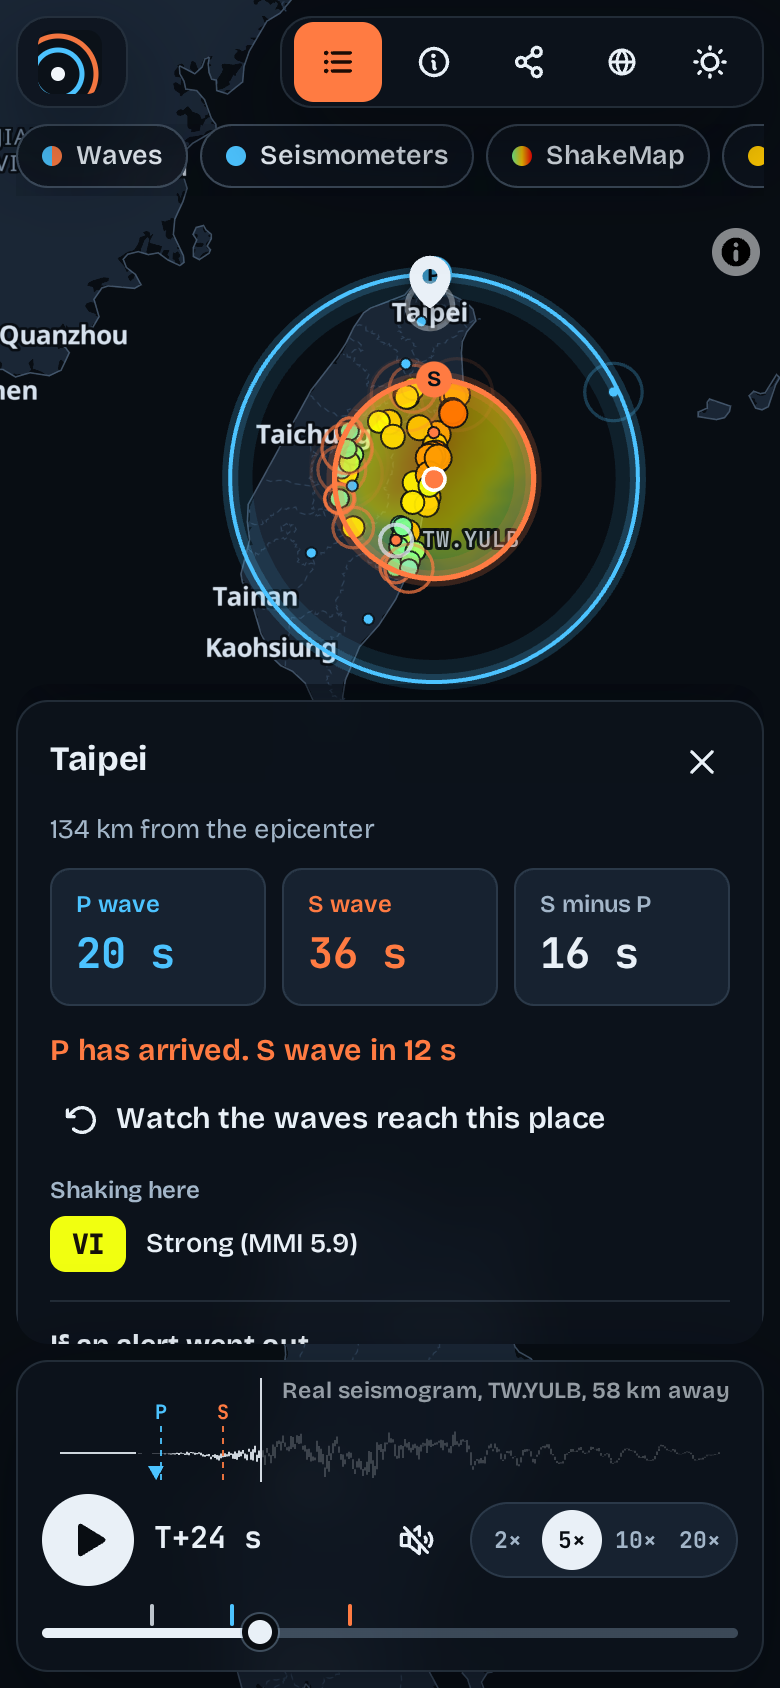
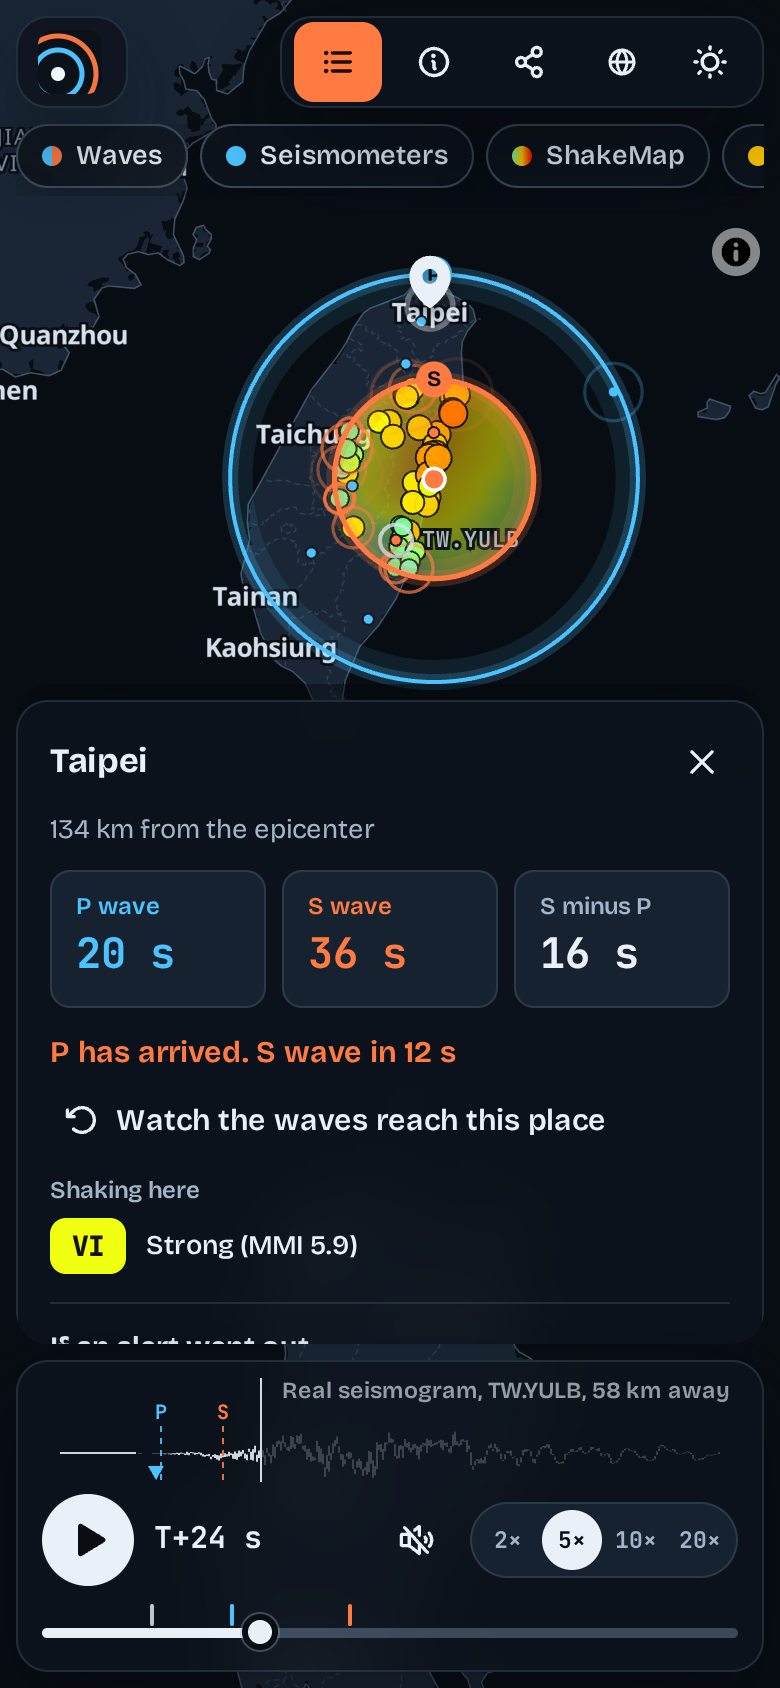
0.4.1: a plain sentence under the README tagline in all nine languages, notes on the new search areas and the link rules, and refreshed phone screenshots

diff --git a/src/app/panel.ts b/src/app/panel.ts
@@ -443,7 +443,7 @@ export function createPanel(host: HTMLElement, cb: PanelCallbacks) {
 
   /** Null until the first update, so a pin kept from an earlier visit does not move the sheet. */
   let hadPin: boolean | null = null;
-  /** The panel scrolls itself to the pin card and to the check card; a viewer who asked for less motion gets a jump. */
+  /** The panel scrolls itself to the pin card and to the check card. A viewer who asked for less motion gets a jump. */
   const scrollBehavior = (): ScrollBehavior => (window.matchMedia('(prefers-reduced-motion: reduce)').matches ? 'auto' : 'smooth');
   /** On a phone the sheet shows the quake card first, which would hide the numbers of a pin just placed. */
   function followPin(placed: boolean): void {

diff --git a/README.md b/README.md
@@ -5,6 +5,8 @@
 
 <p align="center"><strong>Replay any earthquake. See your seconds.</strong></p>
 
+<p align="center">Pick a real earthquake and pin your home on the map. See how many seconds passed between the first wave and strong shaking.</p>
+
 <p align="center">
   <a href="https://arthur031221.github.io/Rumbleback/"><img src="https://img.shields.io/badge/live_demo-open-ff7b42?style=for-the-badge&labelColor=0b1118" alt="Live demo"></a>
   <a href="https://github.com/Arthur031221/Rumbleback/actions/workflows/ci.yml"><img src="https://img.shields.io/github/actions/workflow/status/Arthur031221/Rumbleback/ci.yml?branch=main&style=for-the-badge&labelColor=0b1118&color=4cc3ff&label=CI" alt="CI"></a>
@@ -33,7 +35,7 @@
 
 ## Pick a story
 
-Each link opens a quake on the live page, pins a city and starts the replay. P and S times come from the model. Shaking comes from the USGS ShakeMap. These are the same numbers shown on the pin card.
+Each link opens a quake on the live page, pins a city and starts the replay. The model gives the P and S times. The USGS ShakeMap gives the shaking. The pin card shows the same numbers.
 
 | Quake | Pin | P wave | S wave | Shaking there |
 |---|---|---:|---:|---|
@@ -44,11 +46,11 @@ Each link opens a quake on the live page, pins a city and starts the replay. P a
 
 ## Why
 
-An earthquake makes the news, and you get a magnitude and a shaded map. I wanted to see what the waves did and how many seconds I'd have had at my place. Rumbleback replays a real earthquake. You can check every claim on the screen.
+An earthquake makes the news. You get a magnitude and a shaded map. I wanted to see what the waves did and how many seconds I'd have had at my place. Rumbleback replays a real earthquake. You can check every claim on the screen.
 
-- **Real data.** Every dot is a real instrument, pick or felt report from USGS. A real seismogram runs under the timeline, with the model's P and S arrivals beside the station's recorded signal. The two rings come from a published Earth model. I check it against ObsPy at 600 random points and against real picks on every quake.
+- **Real data.** Every dot is a real instrument, pick or felt report from USGS. A real seismogram runs under the timeline, with the model's P and S arrivals beside the station's recorded signal. The two rings use a published Earth model. I check it against ObsPy at 600 random points and against real picks on every quake.
 - **Your place.** Pin your home to see when the P and S waves arrived and how strong the shaking was. Choose any alert time to see how many seconds it would've given you.
-- **No server.** It's a static page. No account or analytics. Your pin never leaves the browser.
+- **No server.** It's a static page. No account, no analytics. Your pin never leaves the browser.
 
 ## Before and after
 
@@ -73,16 +75,16 @@ The 2024 Hualien M7.4 quake, seen from Taipei.
 
 - **Waves.** The first P and S wavefronts at the surface account for depth. For a deep quake, no ring appears until the wave reaches the surface.
 - **Seismometers.** Each dot flashes at an analyst's picked P arrival time for a real station (USGS phase data).
-- **Inspect a dot.** Hover over a lit dot. A station shows its pick beside the model's time. An instrument shows its intensity and peak readings. A felt report shows its count. The check card lists ten stations the same way and works with a keyboard or touch screen.
-- **Seismogram.** A nearby station's real vertical trace runs along the timeline. The model's P and S arrivals and the analyst's pick are drawn over it (EarthScope archive).
+- **Inspect a dot.** Hover over a lit dot. A station shows its pick beside the model's time. An instrument shows its intensity and peak readings. A felt report shows its count. The check card lists ten stations the same way. It works with a keyboard or touch screen.
+- **Seismogram.** A nearby station's real vertical trace runs along the timeline, with the model's P and S arrivals and the analyst's pick drawn over it (EarthScope archive).
 - **ShakeMap, strong motion and felt reports.** The USGS intensity map, instruments coloured by the intensity USGS computed from their recordings, and Did You Feel It groups. The quake card has a colour key.
 - **Blind zone.** The area where the S wave beat an alert issued at your chosen time.
-- **Your seconds.** P and S arrivals at your pin, the gap between them, the ShakeMap intensity there and an alert slider. It's arithmetic on the model and doesn't reflect any real alert. A button replays the waves from just before they reach your pin.
+- **Your seconds.** P and S arrivals at your pin, the gap between them, the ShakeMap intensity there and an alert slider. The slider uses arithmetic on the model and doesn't reflect any real alert. A button replays the waves from just before they reach your pin.
 - **Sound.** An optional low thump for P, a rumble for S that grows with the intensity at your pin, and a soft chime at the alert second.
-- **Share.** A link, a square card, a story card and a recorded video clip. The clip saves as MP4 where the browser supports it, so it plays on an iPhone and in social apps. On a phone, a card opens the system share sheet. The link includes your pin only if you tick a box. It keeps the pin after the `#`, which browsers never send to a server. Cards show a city name, never coordinates.
-- **Any quake.** Fourteen featured events work without calling USGS. Ten include a seismogram. Recent and Search tabs read the live USGS catalog. The Link tab opens any USGS event page or id you paste, with an EarthScope seismogram when available.
+- **Share.** A link, a square card, a story card and a recorded video clip. The clip saves as MP4 where the browser supports it, so it plays on an iPhone and in social apps. On a phone, a card opens the system share sheet. The link includes your pin only if you tick a box. The pin stays after the `#`, which browsers never send to a server. Cards show a city name, never coordinates.
+- **Any quake.** Fourteen featured events work without calling USGS. Ten include a seismogram. Recent and Search tabs read the live USGS catalog. Paste any USGS event page or id into the Link tab to open it, with an EarthScope seismogram when available.
 - **Your time zone.** The quake card shows the time in UTC and your own time zone.
-- **Phones and keyboards.** On a phone, the panel is a bottom sheet and the seismogram stays above the timeline. A new pin scrolls the sheet to its numbers. Turn the phone sideways and the panel moves to the side, leaving room for the map. Space plays and pauses, the arrows step the clock, and plus and minus zoom the map. A screen reader announces when the P wave, the S wave and the alert reach your pin. Browser tests run axe over both themes on desktop and phone screens, with each dialog open.
+- **Phones and keyboards.** On a phone, the panel is a bottom sheet and the seismogram stays above the timeline. A new pin scrolls the sheet to its numbers. Turn the phone sideways and the panel moves to the side, leaving room for the map. Space plays and pauses. The arrows step the clock, and plus and minus zoom the map. A screen reader announces when the P wave, the S wave and the alert reach your pin. Browser tests run axe over both themes on desktop and phone screens, with each dialog open.
 - **Nine languages.** English, Traditional and Simplified Chinese, Japanese, Korean, Spanish, French, German and Brazilian Portuguese, including the map labels.
 
 <p align="center">
@@ -116,7 +118,7 @@ Open <http://127.0.0.1:4173/>.
 <details>
 <summary>Use the travel-time library in Node or a browser</summary>
 
-`npm run build` writes `dist/rumbleback.js`, a single ES module with no DOM code. The live page serves the same file at `/rumbleback.js`. It's also attached to tagged releases.
+`npm run build` writes `dist/rumbleback.js`, a single ES module with no DOM code. The live page serves the same file at `/rumbleback.js`. Tagged releases include it too.
 
 ```js
 import { TravelTimes, timingAt } from './rumbleback.js';

diff --git a/CHANGELOG.md b/CHANGELOG.md
@@ -1,5 +1,33 @@
 # Changelog
 
+## 0.4.1
+
+Released 2026-10-10.
+
+New
+
+- The search can look in sixteen more countries (Iceland, Tonga, the Solomon Islands, Costa Rica, El Salvador,
+  Nicaragua, Panama, Puerto Rico, the Dominican Republic, South Korea, Algeria, Albania, Romania, Tajikistan,
+  Kyrgyzstan and Argentina) and in two areas that are not countries: Hawaii, and Kamchatka with the Kurils. The
+  names follow the language of the page.
+- The README opens with one plain sentence on what the page does, in all nine languages.
+
+Fixed
+
+- A shared link's pin and language beat what the browser had saved, and they came back on every reload. Someone who
+  opened a friend's link, moved the pin to their own home and reloaded found the friend's pin again, and a removed pin
+  came back too. The address now drops the link's pin and language once the viewer chooses their own.
+- On a Safari before 17.4 (and a Chrome before 116) every request to USGS and EarthScope failed before it was sent,
+  because `AbortSignal.any` is missing there, so a quake that is not on the featured shelf, the Recent, Search and
+  Link tabs and the seismogram did not load. `AbortSignal.timeout`, missing before Safari 16.4, has the same fallback.
+- On a phone the prompt to drop a pin was cut off at the bottom of the sheet for anyone whose time zone is not UTC,
+  and on a 640 pixel high screen in every zone, because the quake card spent four lines on its facts. They run on as a
+  row that wraps, and the cards take a little less padding on a screen of 700 pixels or fewer, so the prompt shows at
+  390 by 664, 375 by 667 and 360 by 640 in all nine languages.
+- Opening the check card scrolled it into view with an animation even when the viewer had asked for less motion.
+- The dots for strong motion stations and felt reports built a colour string for every dot on every frame, about 0.4
+  milliseconds a frame for 5,000 dots on a desktop processor and more on a phone. Each dot's colour is made once per quake.
+
 ## 0.4.0
 
 Released 2026-10-10.

diff --git a/docs/USAGE.md b/docs/USAGE.md
@@ -11,8 +11,8 @@
 
 1. Press "Choose a quake". The *Featured* tab has fourteen well known events and works without
    calling USGS. *Recent* lists the newest quakes of the last 30 days, at most 60, and a menu raises the minimum
-   magnitude (4.5, 5, 6 or 7) to reach further back. *Search* takes a minimum magnitude, a region (sorted by name in your language) and a date
-   range. *Link* takes the address of a USGS event page (news stories often link to one) or an event id such as
+   magnitude (4.5, 5, 6 or 7) to reach further back. *Search* takes a minimum magnitude, a region (sorted by name in your language: 41 countries, California,
+   Alaska, Hawaii, and Kamchatka with the Kurils) and a date range. *Link* takes the address of a USGS event page (news stories often link to one) or an event id such as
    `us7000m9g4`, and opens that quake once USGS confirms it exists.
 2. The replay starts by itself, at a speed chosen so the whole thing takes about half a minute.
    Space plays and pauses. Left and right step one second, with Shift ten seconds. Plus and minus zoom the map.
@@ -121,6 +121,10 @@ Firefox. The file name tells you which one you got.
 | `t` | Clock in seconds after the origin. When present the replay opens paused |
 | `alert` | Alert issue time in seconds after the origin, 0 to 60 |
 | `lang` | `en`, `zh-TW`, `zh-CN`, `ja`, `ko`, `es`, `fr`, `de` or `pt-BR` |
+
+A link's pin and language are where the page starts, and they beat what the browser has saved. Once you choose your own
+pin or language, the address stops carrying the link's, so a reload keeps your choice. The link's other parts, the quake,
+the moment and the alert time, stay in the address.
 
 A link to an id USGS does not have says "USGS has no earthquake with that id" and offers no retry. When USGS cannot
 be reached, the quake card says so and has a "Try again" button.

diff --git a/docs/INSTALL.md b/docs/INSTALL.md
@@ -52,7 +52,8 @@ Running `npm run tables` reproduces the committed table exactly when ObsPy is ve
 
 ## Requirements for the browser
 
-A browser with WebGL 2: any current Chrome, Edge, Firefox or Safari. The replay needs `canvas`, and the
+A browser with WebGL 2: any current Chrome, Edge, Firefox or Safari. Requests to USGS and EarthScope also work on
+a Safari before 17.4 and a Chrome before 116, which lack `AbortSignal.any`. The replay needs `canvas`, and the
 video clip needs `MediaRecorder` (Chrome, Edge, Firefox and recent Safari) and is saved as MP4 where the
 browser can record it and as WebM otherwise. Without `MediaRecorder` the clip button says so and everything
 else works.

diff --git a/docs/ARCHITECTURE.md b/docs/ARCHITECTURE.md
@@ -26,6 +26,7 @@ Pure functions and small classes. No DOM, so it runs under Node for the tests an
 | `residuals.ts` | Observed minus modelled arrival for every pick |
 | `waveform.ts` | Picks a station, fetches its GeoCSV from EarthScope, keeps a min and max per time bin (a quarter second or two samples) |
 | `replay.ts` | Opening view, replay length, default speed |
+| `signal.ts` | `AbortSignal.timeout` and `AbortSignal.any`, with a by-hand version for a Safari that lacks them |
 | `intensity.ts`, `cities.ts`, `link.ts`, `regions.ts` | MMI colours and words, city search, deep links and the event id in a pasted USGS address, the search regions |
 
 ### The travel-time table

diff --git a/README.ko.md b/README.ko.md
@@ -6,6 +6,8 @@
 
 <p align="center"><strong>어떤 지진이든 다시 재생하고, 내게 몇 초가 있었는지 확인하세요.</strong></p>
 
+<p align="center">실제로 일어난 지진을 고르고 지도에 집을 표시하면, 첫 지진파부터 강한 흔들림까지 몇 초가 걸렸는지 볼 수 있습니다.</p>
+
 <p align="center">
   <a href="README.md">English</a> | <a href="README.zh-TW.md">zh-TW</a> | <a href="README.zh-CN.md">zh-CN</a> | <a href="README.ja.md">ja</a> | <a href="README.ko.md">ko</a> | <a href="README.es.md">es</a> | <a href="README.fr.md">fr</a> | <a href="README.de.md">de</a> | <a href="README.pt-BR.md">pt-BR</a>
 </p>

diff --git a/README.de.md b/README.de.md
@@ -6,6 +6,8 @@
 
 <p align="center"><strong>Jedes Erdbeben noch einmal abspielen. Sehen, wie viele Sekunden Sie hatten.</strong></p>
 
+<p align="center">Wählen Sie ein echtes Erdbeben, markieren Sie Ihr Zuhause auf der Karte und sehen Sie, wie viele Sekunden zwischen der ersten Welle und dem starken Beben vergingen.</p>
+
 <p align="center">
   <a href="README.md">English</a> | <a href="README.zh-TW.md">zh-TW</a> | <a href="README.zh-CN.md">zh-CN</a> | <a href="README.ja.md">ja</a> | <a href="README.ko.md">ko</a> | <a href="README.es.md">es</a> | <a href="README.fr.md">fr</a> | <a href="README.de.md">de</a> | <a href="README.pt-BR.md">pt-BR</a>
 </p>

diff --git a/README.ja.md b/README.ja.md
@@ -6,6 +6,8 @@
 
 <p align="center"><strong>どんな地震も再生。自分に何秒あったかがわかる。</strong></p>
 
+<p align="center">実際に起きた地震を選び、地図に自宅のピンを立てると、最初の地震波から強い揺れまでが何秒だったかが分かります。</p>
+
 <p align="center">
   <a href="README.md">English</a> | <a href="README.zh-TW.md">zh-TW</a> | <a href="README.zh-CN.md">zh-CN</a> | <a href="README.ja.md">ja</a> | <a href="README.ko.md">ko</a> | <a href="README.es.md">es</a> | <a href="README.fr.md">fr</a> | <a href="README.de.md">de</a> | <a href="README.pt-BR.md">pt-BR</a>
 </p>

diff --git a/README.fr.md b/README.fr.md
@@ -6,6 +6,8 @@
 
 <p align="center"><strong>Rejouez n'importe quel séisme. Voyez vos secondes.</strong></p>
 
+<p align="center">Choisissez un vrai séisme, placez votre domicile sur la carte et voyez combien de secondes se sont écoulées entre la première onde et les fortes secousses.</p>
+
 <p align="center">
   <a href="README.md">English</a> | <a href="README.zh-TW.md">zh-TW</a> | <a href="README.zh-CN.md">zh-CN</a> | <a href="README.ja.md">ja</a> | <a href="README.ko.md">ko</a> | <a href="README.es.md">es</a> | <a href="README.fr.md">fr</a> | <a href="README.de.md">de</a> | <a href="README.pt-BR.md">pt-BR</a>
 </p>

diff --git a/README.es.md b/README.es.md
@@ -6,6 +6,8 @@
 
 <p align="center"><strong>Reproduce cualquier terremoto. Mira tus segundos.</strong></p>
 
+<p align="center">Elige un terremoto real, marca tu casa en el mapa y mira cuántos segundos pasaron entre la primera onda y la sacudida fuerte.</p>
+
 <p align="center">
   <a href="README.md">English</a> | <a href="README.zh-TW.md">zh-TW</a> | <a href="README.zh-CN.md">zh-CN</a> | <a href="README.ja.md">ja</a> | <a href="README.ko.md">ko</a> | <a href="README.es.md">es</a> | <a href="README.fr.md">fr</a> | <a href="README.de.md">de</a> | <a href="README.pt-BR.md">pt-BR</a>
 </p>

diff --git a/README.pt-BR.md b/README.pt-BR.md
@@ -6,6 +6,8 @@
 
 <p align="center"><strong>Reveja qualquer terremoto. Veja os seus segundos.</strong></p>
 
+<p align="center">Escolha um terremoto real, marque sua casa no mapa e veja quantos segundos se passaram entre a primeira onda e o tremor forte.</p>
+
 <p align="center">
   <a href="README.md">English</a> | <a href="README.zh-TW.md">zh-TW</a> | <a href="README.zh-CN.md">zh-CN</a> | <a href="README.ja.md">ja</a> | <a href="README.ko.md">ko</a> | <a href="README.es.md">es</a> | <a href="README.fr.md">fr</a> | <a href="README.de.md">de</a> | <a href="README.pt-BR.md">pt-BR</a>
 </p>
